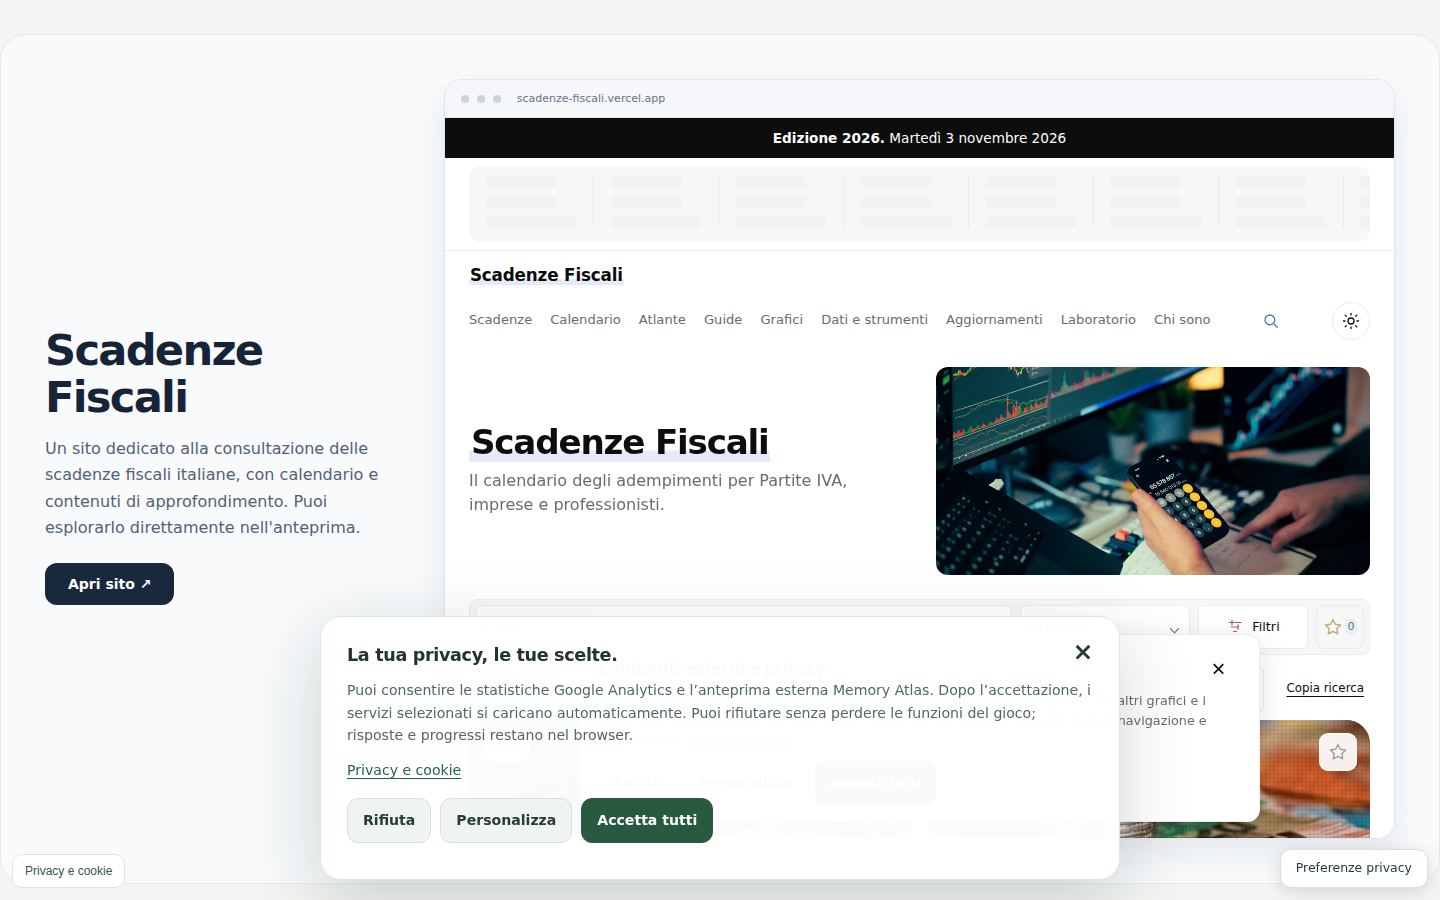
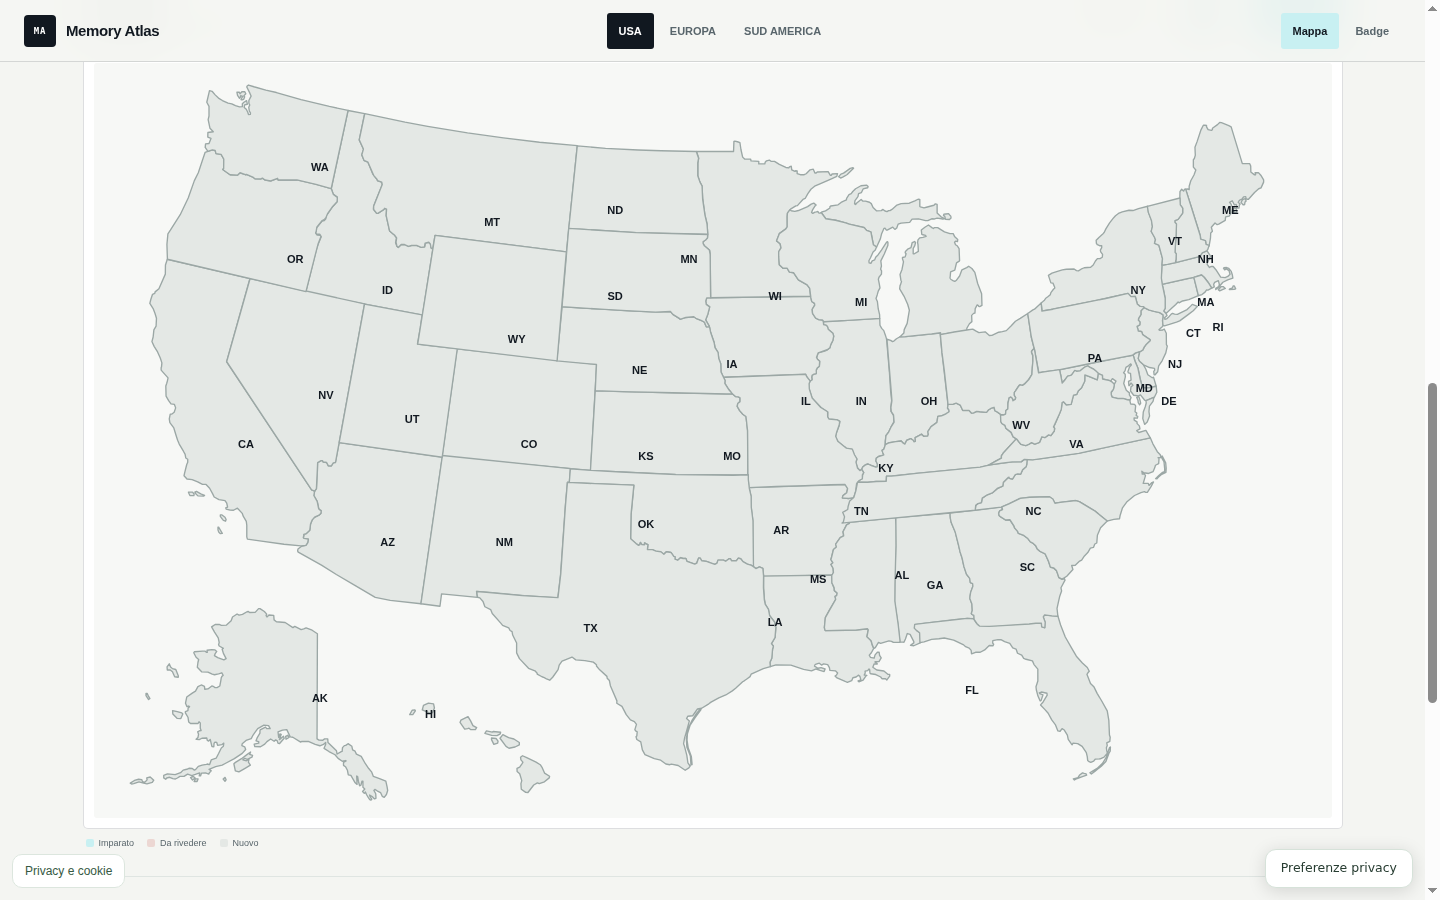
Migliora screenshot desktop e mobile della documentazione (#46)
* Prepara acquisizione screenshot browser

* Acquisisce screenshot senza banner privacy

* Corregge esecuzione asincrona cattura browser

* Aggiorna screenshot reali desktop e mobile

* Documenta anche la versione mobile del sito

* Rimuove lo script temporaneo di acquisizione immagini

* Rimuove lo script temporaneo di acquisizione immagini

---------

diff --git a/README.md b/README.md
@@ -8,6 +8,13 @@ Un quiz per esercitarsi sulle capitali degli Stati Uniti, dell’Europa e del Su
 
 ![Schermata desktop reale del sito pubblicato](docs/images/screenshot-desktop.png)
 
+<details>
+<summary>Screenshot mobile</summary>
+
+![Schermata mobile del sito](docs/images/screenshot-mobile.png)
+
+</details>
+
 ## Come funziona
 
 ![Schema del flusso principale](docs/images/flusso.svg)
